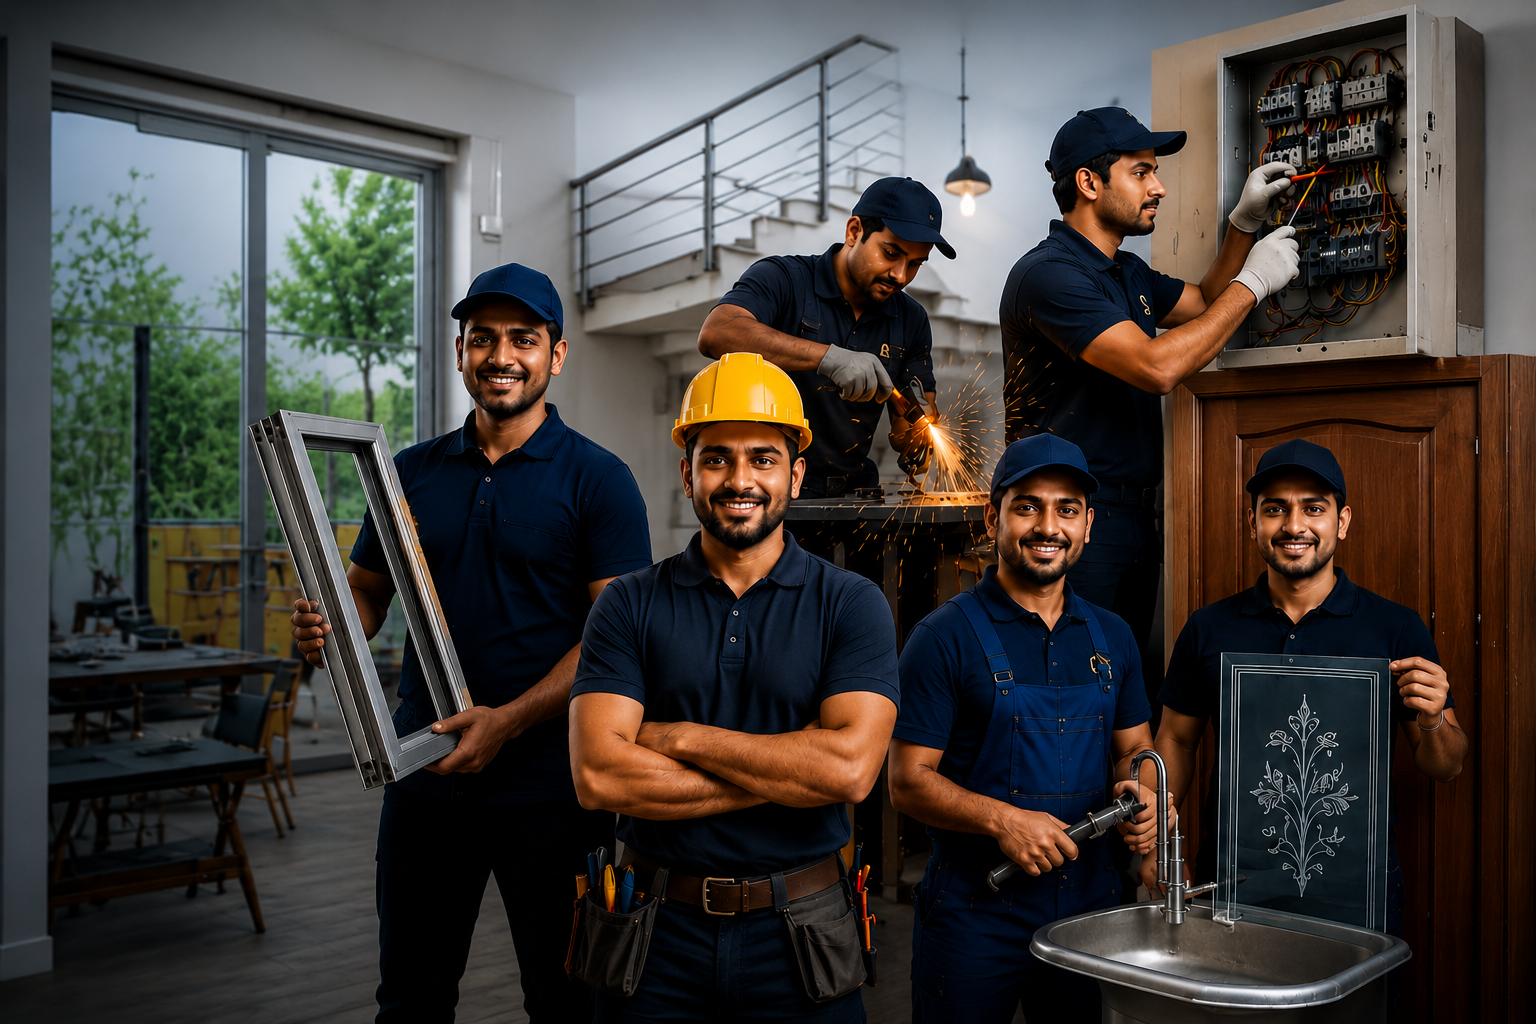
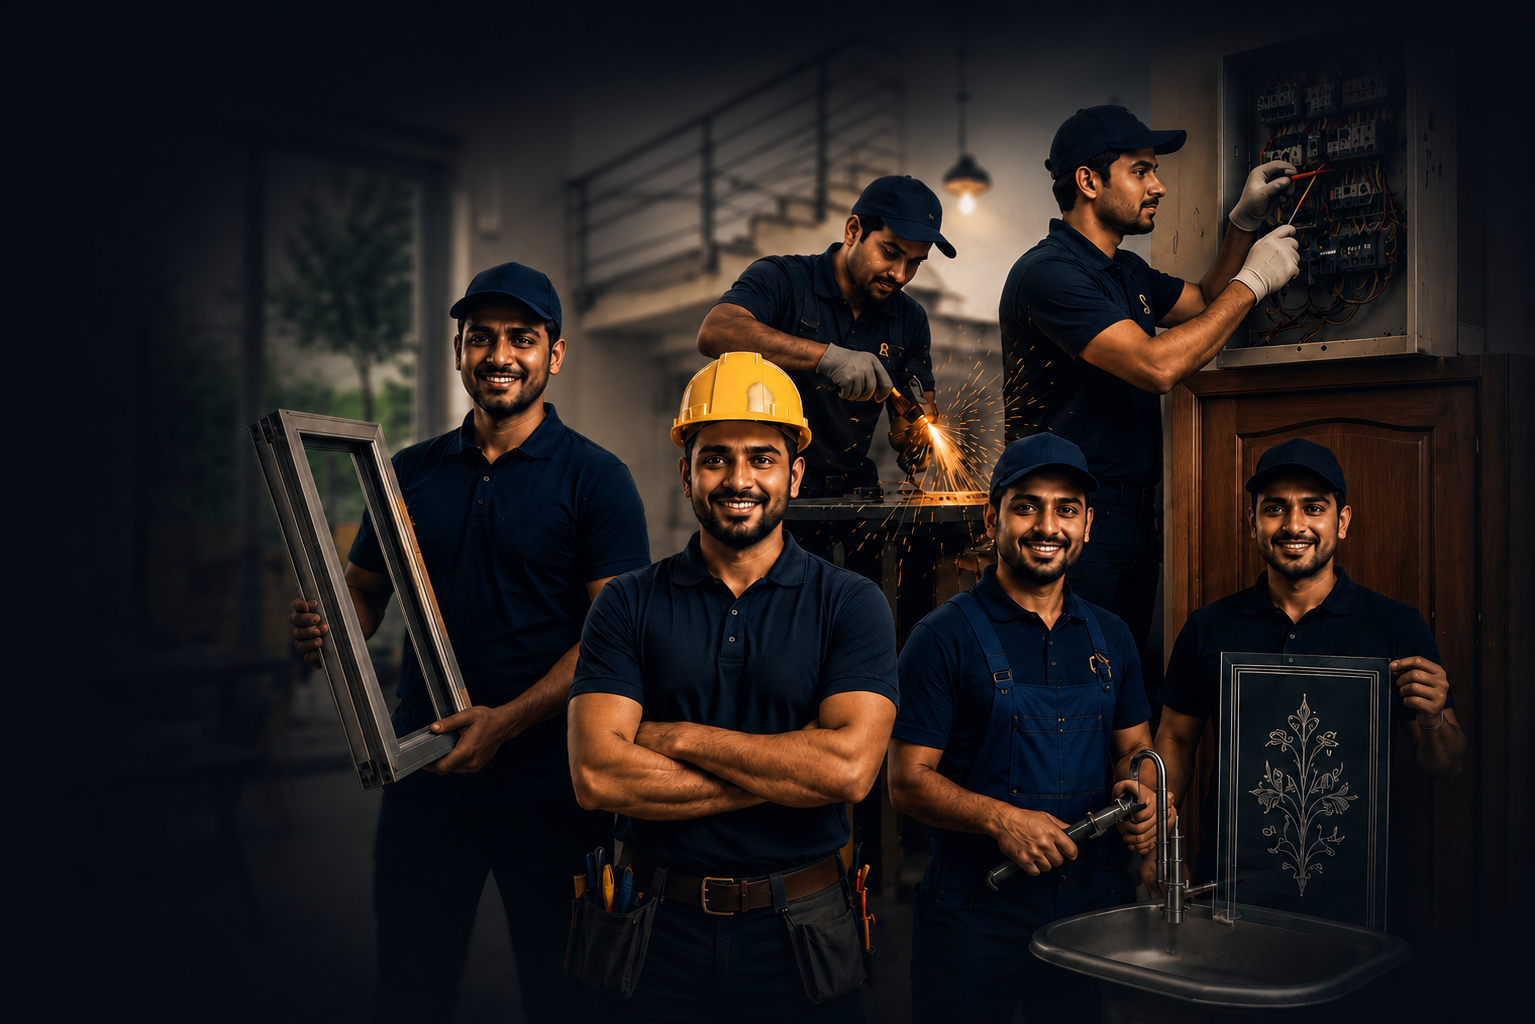
add

diff --git a/service/service1.html b/service/service1.html
@@ -506,89 +506,6 @@
     </style>
   </head>
   <body>
-    <header>
-      <nav class="navbar">
-        <div class="logo">
-          <svg
-            class="logo-icon"
-            viewBox="0 0 48 48"
-            fill="none"
-            stroke-width="1.5"
-          >
-            <path
-              d="M6 42V14l10-6v34"
-              stroke-linecap="round"
-              stroke-linejoin="round"
-            />
-            <path
-              d="M16 42V8l10-4v38"
-              stroke-linecap="round"
-              stroke-linejoin="round"
-            />
-            <path
-              d="M26 42V16l10-6v32"
-              stroke-linecap="round"
-              stroke-linejoin="round"
-            />
-            <path d="M2 42h44" stroke-linecap="round" />
-          </svg>
-          <div class="logo-text">
-            <h1>ALUMINIUM <span>WORKS</span></h1>
-            <p>STRONG • DURABLE • ELEGANT</p>
-          </div>
-        </div>
-
-        <ul class="nav-links" id="navLinks">
-          <li><a href="#" class="active">Home</a></li>
-          <li><a href="#">About Us</a></li>
-          <li><a href="#">Our Work</a></li>
-          <li><a href="#">Services</a></li>
-          <li><a href="#">Gallery</a></li>
-          <li><a href="#">Contact Us</a></li>
-        </ul>
-
-        <div style="display: flex; align-items: center; gap: 14px">
-          <a href="tel:+911234567890" class="call-btn">
-            <svg
-              viewBox="0 0 24 24"
-              fill="none"
-              stroke="currentColor"
-              stroke-width="2"
-            >
-              <path
-                d="M22 16.92v3a2 2 0 0 1-2.18 2 19.79 19.79 0 0 1-8.63-3.07 19.5 19.5 0 0 1-6-6 19.79 19.79 0 0 1-3.07-8.67A2 2 0 0 1 4.11 2h3a2 2 0 0 1 2 1.72c.127.96.361 1.903.7 2.81a2 2 0 0 1-.45 2.11L8.09 9.91a16 16 0 0 0 6 6l1.27-1.27a2 2 0 0 1 2.11-.45c.907.339 1.85.573 2.81.7A2 2 0 0 1 22 16.92z"
-                stroke-linecap="round"
-                stroke-linejoin="round"
-              />
-            </svg>
-            <span class="call-text"
-              ><span class="call-label">Call Us</span><br /><span
-                class="call-number"
-                >+91 12345 67890</span
-              ></span
-            >
-          </a>
-          <button class="menu-toggle" id="menuToggle" aria-label="Toggle menu">
-            <span></span><span></span><span></span>
-          </button>
-        </div>
-      </nav>
-    </header>
-
-    <section class="hero">
-      <div class="hero-inner">
-        <div class="hero-content">
-          <p class="eyebrow">QUALITY ALUMINIUM WORK</p>
-          <h2>Stronger. Lighter.<br />Better.</h2>
-          <p>
-            We specialize in premium aluminium works for your home, office and
-            commercial spaces.
-          </p>
-          <a href="#services" class="btn-primary">Our Services →</a>
-        </div>
-      </div>
-    </section>
-
     <section class="services" id="services">
       <div class="container">
         <p class="section-eyebrow">OUR SERVICES</p>

diff --git a/worker_profile.html b/worker_profile.html
@@ -7,40 +7,51 @@
     <link rel="stylesheet" href="./css/worker_profile.css" />
   </head>
   <body>
-    <div class="worker-section-card">
-      <img src="./assets/worker/al1.jpg" alt="" />
+    <h1
+      style="
+        color: white;
+        font-family: &quot;Segoe UI&quot;, Tahoma, Geneva, Verdana, sans-serif;
+        margin-left: 20%;
+      "
+    >
+      TEAM PROFILE
+    </h1>
+    <div class="body">
+      <div class="worker-section-card">
+        <img src="./assets/worker/al1.jpg" alt="" />
 
-      <p class="name">ASLAM ANSARI</p>
-      <p class="work-type">Aluminium Worker</p>
-      <p class="ex">Experience : 8 year</p>
-      <p class="age">Age : 26</p>
-    </div>
+        <p class="name">ASLAM ANSARI</p>
+        <p class="work-type">Aluminium Worker</p>
+        <p class="ex">Experience : 8 year</p>
+        <p class="age">Age : 26</p>
+      </div>
 
-    <div class="worker-section-card">
-      <img src="./assets/worker/al2.jpg" alt="" />
+      <div class="worker-section-card">
+        <img src="./assets/worker/al2.jpg" alt="" />
 
-      <p class="name">Arif</p>
-      <p class="work-type">Aluminium Worker</p>
-      <p class="ex">Expreience : 7 year</p>
-      <p class="age">Age : 25</p>
-    </div>
+        <p class="name">Arif</p>
+        <p class="work-type">Aluminium Worker</p>
+        <p class="ex">Expreience : 7 year</p>
+        <p class="age">Age : 25</p>
+      </div>
 
-    <div class="worker-section-card">
-      <img src="./assets/worker/al1.jpg" alt="" />
+      <div class="worker-section-card">
+        <img src="./assets/worker/al1.jpg" alt="" />
 
-      <p class="name">ASLAM ANSARI</p>
-      <p class="work-type">Aluminium Worker</p>
-      <p class="ex">random text</p>
-      <p class="age">phoen jh</p>
-    </div>
+        <p class="name">ASLAM ANSARI</p>
+        <p class="work-type">Aluminium Worker</p>
+        <p class="ex">random text</p>
+        <p class="age">phoen jh</p>
+      </div>
 
-    <div class="worker-section-card">
-      <img src="./assets/worker/al1.jpg" alt="" />
+      <div class="worker-section-card">
+        <img src="./assets/worker/al1.jpg" alt="" />
 
-      <p class="name">ASLAM ANSARI</p>
-      <p class="work-type">Aluminium Worker</p>
-      <p class="ex">random text</p>
-      <p class="age">phoen jh</p>
+        <p class="name">ASLAM ANSARI</p>
+        <p class="work-type">Aluminium Worker</p>
+        <p class="ex">random text</p>
+        <p class="age">phoen jh</p>
+      </div>
     </div>
   </body>
 </html>

diff --git a/css/worker_profile.css b/css/worker_profile.css
@@ -31,9 +31,16 @@
 }
 
 body {
-  background-color: rgb(255, 253, 253);
+  background-image: url(../assets/new.png);
+  background-size: cover;
+  background-position: center;
+  align-items: center;
+}
+
+.body {
   display: flex;
   flex-direction: row;
+  justify-content: center;
   flex-wrap: wrap;
 }
 
@@ -109,8 +116,22 @@ body {
 
 @media screen and (max-width: 800px) {
   .worker-section-card {
-    width: 40%;
-    height: 250px;
-    margin: 10px;
+    width: 30%;
+    width: 100px;
+    height: 180px;
+    margin: 5px;
+  }
+
+  .name {
+    font-size: 10px;
+  }
+
+  .work-type {
+    align-items: center;
+    height: 15px;
+    font-size: 8px;
+    text-align: center;
+    display: flex;
+    justify-content: center;
   }
 }

diff --git a/index.html b/index.html
@@ -474,7 +474,7 @@
           font-size: 14.5px;
         }
         .eyebrow {
-          font-size: 12px;
+          font-size: 14px;
         }
         .services {
           padding: 60px 0 60px;
@@ -557,13 +557,10 @@
     <section class="hero">
       <div class="hero-inner">
         <div class="hero-content">
-          <p class="eyebrow">QUALITY ALUMINIUM WORK</p>
-          <h2>Stronger. Lighter.<br />Better.</h2>
-          <p>
-            We specialize in premium aluminium works for your home, office and
-            commercial spaces.
-          </p>
-          <a href="#services" class="btn-primary">Our Services →</a>
+          <p class="eyebrow">ONE STOP SOLUTION FOR</p>
+          <h2>EVERY HOME<br />NEED</h2>
+          <p>Expert Services. Premium Quality Delivered </br> at Your Doorstep.</p>
+          <a href="./worker_profile.html" class="btn-primary">Our Team →</a>
         </div>
       </div>
     </section>
@@ -811,5 +808,15 @@ ${message}`;
 
         window.open(whatsappURL, "_blank");
       });
+  </script>
+  <script>
+    const toggle = document.getElementById("menuToggle");
+    const navLinks = document.getElementById("navLinks");
+    toggle.addEventListener("click", () => {
+      navLinks.classList.toggle("open");
+    });
+    navLinks.querySelectorAll("a").forEach((a) => {
+      a.addEventListener("click", () => navLinks.classList.remove("open"));
+    });
   </script>
 </html>